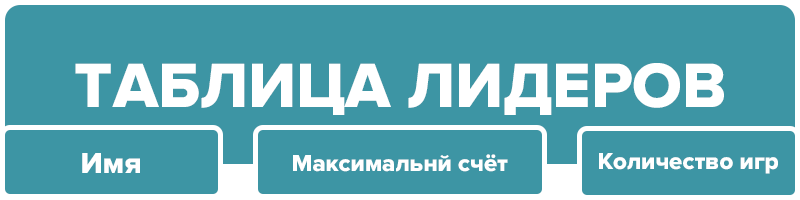
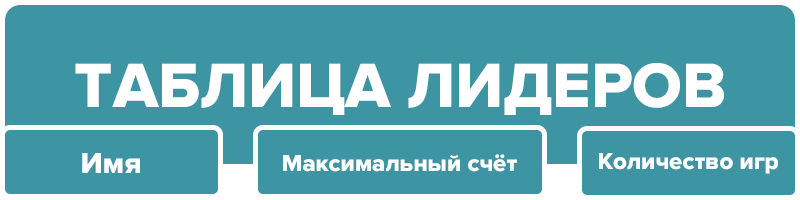
Bug fixed

Changed region(s): [[0.3438, 0.75, 0.6562, 0.87]]

diff --git a/game_functions.py b/game_functions.py
@@ -73,6 +73,7 @@ def start_screen():
                 clock.tick(FPS)
         elif rating_flag:
             buttons.empty()
+            info_label.update_data()
             return_btn = Button(icons["full_cross"], 1215, 0)
             for event in pygame.event.get():
                 if event.type == pygame.QUIT:
@@ -84,7 +85,7 @@ def start_screen():
                                 sprite.scroll_down()
                     elif event.button == 5:
                         for sprite in info_labels:
-                            if info_label.dy > -425:
+                            if info_label.dy > -(len(info_label.data) * 70):
                                 sprite.scroll_up()
                 if event.type == pygame.MOUSEBUTTONUP:
                     if return_btn.on_hovered(event.pos):
@@ -95,7 +96,6 @@ def start_screen():
             check_hovered()
             screen.fill("#d7def0")
             info_label.render()
-            screen.blit(leaderboard_label, (240, 0))
             # Отрисовка
             buttons.draw(screen)
             buttons.update()
@@ -107,7 +107,7 @@ def start_screen():
             start_btn = Button(long_button, 389, 314, "ИГРАТЬ")
             settings_btn = Button(long_button, 389, 447, "НАСТРОЙКИ")
             exit_btn = Button(long_button, 389, 580, "ВЫХОД")
-            rating_btn = Button(button, 1150, 37, icon=icons["cup"])
+            rating_btn = Button(button, 1150, 37, icon=pygame.transform.scale(icons["cup"], (55, 55)))
             for event in pygame.event.get():
                 if event.type == pygame.QUIT:
                     terminate()
@@ -279,7 +279,6 @@ def game(player1, player2):
                                 transition()
                             else:
                                 game_data[player2]["player_board"] = board.board.copy()
-                                print(game_data)
                                 board.board = game_data[player2]["player_board"]
                                 action["player"] = player1
                                 action["action"] = "attack"
@@ -314,11 +313,11 @@ def game(player1, player2):
                         if pause_btn.on_hovered(event.pos):
                             settings_flag = True
                     # Печать "отладочной информации" об игроках в формате .json
-                    elif event.type == pygame.KEYDOWN:
-                        if event.key == pygame.K_SPACE:
-                            print(action["player"])
-                            for key, value in game_data[action["player"]]["player_board"].items():
-                                print(f"{key}: {value}")
+                    # elif event.type == pygame.KEYDOWN:
+                    #     if event.key == pygame.K_SPACE:
+                    #         print(action["player"])
+                    #         for key, value in game_data[action["player"]]["player_board"].items():
+                    #             print(f"{key}: {value}")
                 screen.fill("#D8DDEF")
 
                 flipped_mark = pygame.transform.flip(wall_mark, True, False)
@@ -357,6 +356,9 @@ def game(player1, player2):
                             transition()
                             if game_data[player1]["score"] > game_data[player2]["score"]:
                                 end_screen(player1)
+                                return
+                            elif game_data[player1]["score"] == game_data[player2]["score"]:
+                                end_screen(None)
                                 return
                             else:
                                 end_screen(player2)
@@ -479,7 +481,8 @@ def create_particles(position, particle_count=20):
 
 
 def end_screen(winner_name):
-    win_sound.play()
+    if winner_name:
+        win_sound.play()
     timer = 0
     buttons.empty()
     all_sprites.empty()
@@ -499,28 +502,20 @@ def end_screen(winner_name):
         screen.fill("#6194a2")
         timer += 1
         check_hovered()
-        if timer % 30 == 0:
+        if timer % 30 == 0 and winner_name:
             for _ in range(random.randint(1, 5)):
                 create_particles((random.randint(0, SCREEN_WIDTH - 200), random.randint(0, SCREEN_HEIGHT - 200)), 20)
         all_sprites.draw(screen)
         all_sprites.update()
-        set_text(text_box, f"ПОБЕДИЛ ИГРОК {winner_name}!", font_size=65)
+        if winner_name:
+            set_text(text_box, f"ПОБЕДИЛ ИГРОК {winner_name}!", font_size=65)
+        else:
+            set_text(text_box, f"НИЧЬЯ!", font_size=120)
         # Отрисовка
         buttons.draw(screen)
         buttons.update()
         pygame.display.flip()
         clock.tick(FPS)
-
-
-def warning_window(error):
-    warning_sound.play()
-    text_surf = pygame.Surface((400, 70))
-    warning_textbox = TextBox(text_surf, 482, 325)
-    screen.blit(warning_bg, (389, 314))
-    set_text(warning_textbox, error, font_size=20)
-    pygame.display.flip()
-    clock.tick(FPS)
-    pygame.time.delay(2000)
 
 
 def update_leaderboard(game_data, player1, player2):
@@ -543,39 +538,13 @@ def update_leaderboard(game_data, player1, player2):
     with open("./data/game_data.json", "w") as write_file:
         json.dump(leaderboard_data, write_file, indent=4)
 
-# {(0, 0): {'shield': False, 'attacked': (True, True), 'points': 10},
-# (1, 0): {'shield': True, 'attacked': (True, False), 'points': 10},
-# (2, 0): {'shield': True, 'attacked': (True, False), 'points': 10},
-# (3, 0): {'shield': False, 'attacked': (True, True), 'points': 10},
-# (4, 0): {'shield': False, 'attacked': (True, True), 'points': 10},
-# (5, 0): {'shield': False, 'attacked': (True, True), 'points': 10},
-# (0, 1): {'shield': False, 'attacked': (True, True), 'points': 10},
-# (1, 1): {'shield': False, 'attacked': (False, False), 'points': 20},
-# (2, 1): {'shield': False, 'attacked': (True, True), 'points': 20},
-# (3, 1): {'shield': False, 'attacked': (True, True), 'points': 20},
-# (4, 1): {'shield': True, 'attacked': (False, False), 'points': 20},
-# (5, 1): {'shield': True, 'attacked': (True, False), 'points': 10},
-# (0, 2): {'shield': True, 'attacked': (True, False), 'points': 10},
-# (1, 2): {'shield': True, 'attacked': (False, False), 'points': 20},
-# (2, 2): {'shield': True, 'attacked': (True, False), 'points': 40},
-# (3, 2): {'shield': True, 'attacked': (True, False), 'points': 40},
-# (4, 2): {'shield': False, 'attacked': (True, True), 'points': 20},
-# (5, 2): {'shield': True, 'attacked': (True, False), 'points': 10},
-# (0, 3): {'shield': False, 'attacked': (False, False), 'points': 10},
-# (1, 3): {'shield': True, 'attacked': (False, False), 'points': 20},
-# (2, 3): {'shield': False, 'attacked': (True, True), 'points': 40},
-# (3, 3): {'shield': True, 'attacked': (True, False), 'points': 40},
-# (4, 3): {'shield': False, 'attacked': (True, True), 'points': 20},
-# (5, 3): {'shield': False, 'attacked': (True, True), 'points': 10},
-# (0, 4): {'shield': False, 'attacked': (False, False), 'points': 10},
-# (1, 4): {'shield': True, 'attacked': (False, False), 'points': 20},
-# (2, 4): {'shield': True, 'attacked': (False, False), 'points': 20},
-# (3, 4): {'shield': True, 'attacked': (False, False), 'points': 20},
-# (4, 4): {'shield': True, 'attacked': (True, False), 'points': 20},
-# (5, 4): {'shield': True, 'attacked': (True, False), 'points': 10},
-# (0, 5): {'shield': False, 'attacked': (False, False), 'points': 10},
-# (1, 5): {'shield': True, 'attacked': (False, False), 'points': 10},
-# (2, 5): {'shield': False, 'attacked': (False, False), 'points': 10},
-# (3, 5): {'shield': True, 'attacked': (False, False), 'points': 10},
-# (4, 5): {'shield': False, 'attacked': (True, True), 'points': 10},
-# (5, 5): {'shield': True, 'attacked': (True, False), 'points': 10}}
+
+def warning_window(error):
+    warning_sound.play()
+    text_surf = pygame.Surface((400, 70))
+    warning_textbox = TextBox(text_surf, 482, 325)
+    screen.blit(warning_bg, (389, 314))
+    set_text(warning_textbox, error, font_size=20)
+    pygame.display.flip()
+    clock.tick(FPS)
+    pygame.time.delay(2000)

diff --git a/game_classes.py b/game_classes.py
@@ -123,10 +123,15 @@ class LeaderBoard(pygame.sprite.Sprite):
         super(LeaderBoard, self).__init__(info_labels)
         self.short_label = short_label
         self.long_label = long_label
-        self.data = sorted(get_leader_data(), key=lambda x: x["max_score"], reverse=True)[:10]
+        self.number_label = button
+        self.data = []
         self.length = 0
         self.diff_labels = 150
         self.dy = y1
+        self.update_data()
+
+    def update_data(self):
+        self.data = sorted(get_leader_data(), key=lambda x: x["max_score"], reverse=True)[:10]
 
     def scroll_down(self):
         self.dy += SCROLLING_SPEED
@@ -136,19 +141,23 @@ class LeaderBoard(pygame.sprite.Sprite):
 
     def render(self):
         for i in range(len(self.data)):
+            order_number_label = TextBox(self.number_label, 128, (self.diff_labels * i + self.dy))
             nickname_label = TextBox(self.short_label, 240, (self.diff_labels * i + self.dy))
             max_score_label = TextBox(self.long_label, 501, (self.diff_labels * i + self.dy))
             games_count_label = TextBox(self.short_label, 816, (self.diff_labels * i + self.dy))
+            screen.blit(self.number_label, (128, (self.diff_labels * i + self.dy)))
             screen.blit(self.short_label, (240, (self.diff_labels * i + self.dy)))
             screen.blit(self.long_label, (501, (self.diff_labels * i + self.dy)))
             screen.blit(self.short_label, (816, (self.diff_labels * i + self.dy)))
+            set_text(order_number_label, str(i + 1), font_size=30)
             set_text(nickname_label, str(self.data[i]["nickname"]), font_size=30)
             set_text(max_score_label, str(self.data[i]["max_score"]), font_size=30)
             set_text(games_count_label, str(self.data[i]["games_count"]), font_size=30)
+            screen.blit(leaderboard_label, (240, self.dy - 224))
         self.length = -(((100 * len(self.data)) + 100 * 3) / 2)
 
 
-# Класс, описывающий Поле для ввода текста
+# Класс, описывающий поле для текста
 class TextBox(pygame.sprite.Sprite):
     def __init__(self, image, x, y):
         super(TextBox, self).__init__(all_sprites)
